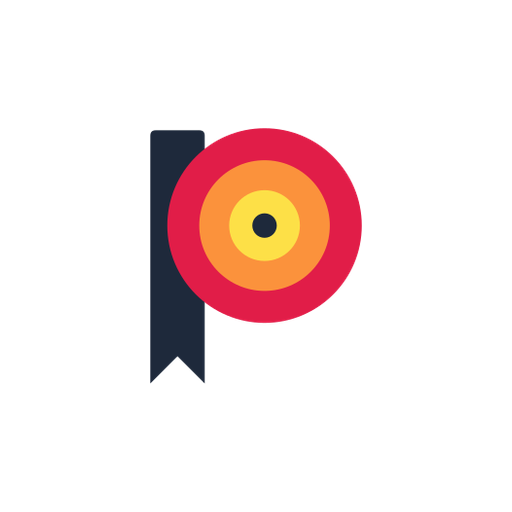
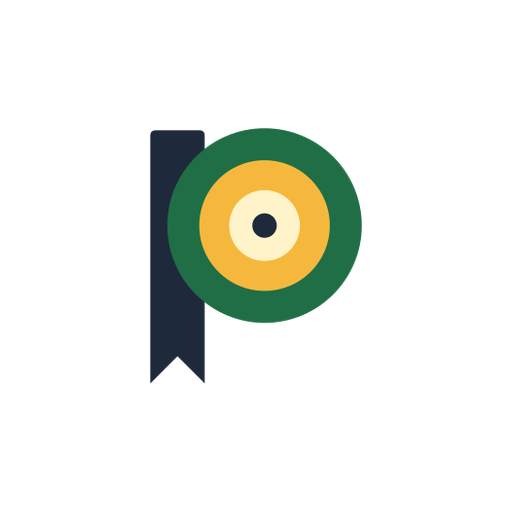
brand: recolour the P mark into the site palette (green, amber, cream)

Changed region(s): [[0.3125, 0.25, 0.7188, 0.6562]]

diff --git a/public/index.html b/public/index.html
@@ -392,7 +392,7 @@ body > :where(:not(.chalkboard):not(script):not(style)){position:relative;z-inde
 <style>/* Header: one line per link; drop the marketing links first when space runs out. */.nav-links a,#ss-account-area button,#ss-account-area a{white-space:nowrap}@media(max-width:1360px){.nav-links a[href="/about/"],.nav-links a[href="/#how-it-works"]{display:none}}.header-bar .nav-links{flex:1;justify-content:flex-start}.header-bar .nav-links a[href="#classes-section"].nav-hide-sm{margin-left:auto}.header-bar .nav-links a[href="/settings/"].nav-hide-sm{margin-right:auto}</style>
 <div role="banner" class="header-bar" style="display:flex;align-items:center;justify-content:space-between;padding:18px 32px;background:var(--bg-header);border-bottom:1px solid var(--border);position:relative;">
   <button id="ss-logo-btn" type="button" aria-haspopup="menu" aria-expanded="false" aria-controls="ss-mobile-menu" onclick="ssLogoClick()" style="font-weight:800;font-size:22px;color:var(--nav-text);display:flex;align-items:center;gap:8px;background:none;border:none;padding:0;cursor:pointer;font-family:inherit;" aria-label="PrecisStudy">
-    <svg class="ss-mark" viewBox="46 30 164 196" width="22" height="26" aria-hidden="true" focusable="false" style="flex-shrink:0;margin-right:-5px"><path d="M55 36H87Q91 36 91 40V222L71 202L51 222V40Q51 36 55 36Z" fill="currentColor"/><circle cx="135" cy="106" r="71.5" fill="#e11d48"/><circle cx="135" cy="106" r="48" fill="#fb923c"/><circle cx="135" cy="106" r="26" fill="#fde047"/><circle cx="135" cy="106" r="9" fill="currentColor"/></svg>recisStudy
+    <svg class="ss-mark" viewBox="46 30 164 196" width="22" height="26" aria-hidden="true" focusable="false" style="flex-shrink:0;margin-right:-5px"><path d="M55 36H87Q91 36 91 40V222L71 202L51 222V40Q51 36 55 36Z" fill="currentColor"/><circle cx="135" cy="106" r="71.5" style="fill:var(--accent,#1f6e46)"/><circle cx="135" cy="106" r="48" fill="#f5b83d"/><circle cx="135" cy="106" r="26" fill="#fff3c9"/><circle cx="135" cy="106" r="9" fill="currentColor"/></svg>recisStudy
   <svg class="ss-menu-icon" aria-hidden="true" viewBox="0 0 24 24" width="20" height="20" fill="none" stroke="currentColor" stroke-width="2" stroke-linecap="round"><path d="M4 7h16M4 12h16M4 17h16"/></svg></button>
   <div role="navigation" aria-label="Main" class="nav-links" style="display:flex;gap:16px;font-weight:600;font-size:15px;color:var(--nav-text);align-items:center;">
     <a href="#classes-section" class="nav-hide-sm" style="color:var(--nav-text);text-decoration:none;">Browse Subjects</a>

diff --git a/public/admin/index.html b/public/admin/index.html
@@ -116,7 +116,7 @@ html{scroll-behavior:smooth}
 <style>/* Header: one line per link; drop the marketing links first when space runs out. */.nav-links a,#ss-account-area button,#ss-account-area a{white-space:nowrap}@media(max-width:1360px){.nav-links a[href="/about/"],.nav-links a[href="/#how-it-works"]{display:none}}</style>
 <div role="banner" class="header-bar" style="display:flex;align-items:center;justify-content:space-between;padding:18px 32px;background:var(--bg-header);border-bottom:1px solid var(--border);">
   <a href="/" style="font-weight:800;font-size:22px;color:var(--nav-text);display:flex;align-items:center;gap:8px;text-decoration:none;" aria-label="PrecisStudy">
-    <svg class="ss-mark" viewBox="46 30 164 196" width="22" height="26" aria-hidden="true" focusable="false" style="flex-shrink:0;margin-right:-5px"><path d="M55 36H87Q91 36 91 40V222L71 202L51 222V40Q51 36 55 36Z" fill="currentColor"/><circle cx="135" cy="106" r="71.5" fill="#e11d48"/><circle cx="135" cy="106" r="48" fill="#fb923c"/><circle cx="135" cy="106" r="26" fill="#fde047"/><circle cx="135" cy="106" r="9" fill="currentColor"/></svg>recisStudy
+    <svg class="ss-mark" viewBox="46 30 164 196" width="22" height="26" aria-hidden="true" focusable="false" style="flex-shrink:0;margin-right:-5px"><path d="M55 36H87Q91 36 91 40V222L71 202L51 222V40Q51 36 55 36Z" fill="currentColor"/><circle cx="135" cy="106" r="71.5" style="fill:var(--accent,#1f6e46)"/><circle cx="135" cy="106" r="48" fill="#f5b83d"/><circle cx="135" cy="106" r="26" fill="#fff3c9"/><circle cx="135" cy="106" r="9" fill="currentColor"/></svg>recisStudy
   </a>
   <div role="navigation" aria-label="Main" class="nav-links" style="display:flex;gap:16px;font-weight:600;font-size:15px;color:var(--nav-text);align-items:center;">
     <button id="theme-toggle" onclick="ssToggleTheme()" aria-label="Toggle dark mode" title="Toggle dark mode">

diff --git a/public/onboarding/index.html b/public/onboarding/index.html
@@ -228,7 +228,7 @@ a{color:var(--accent)}
 <style>/* Header: one line per link; drop the marketing links first when space runs out. */.nav-links a,#ss-account-area button,#ss-account-area a{white-space:nowrap}@media(max-width:1360px){.nav-links a[href="/about/"],.nav-links a[href="/#how-it-works"]{display:none}}</style>
 <div role="banner" class="header-bar" style="display:flex;align-items:center;justify-content:space-between;padding:18px 32px;background:var(--bg-header);border-bottom:1px solid var(--border);">
   <a href="/" style="font-weight:800;font-size:22px;color:var(--nav-text);display:flex;align-items:center;gap:8px;text-decoration:none;" aria-label="PrecisStudy">
-    <svg class="ss-mark" viewBox="46 30 164 196" width="22" height="26" aria-hidden="true" focusable="false" style="flex-shrink:0;margin-right:-5px"><path d="M55 36H87Q91 36 91 40V222L71 202L51 222V40Q51 36 55 36Z" fill="currentColor"/><circle cx="135" cy="106" r="71.5" fill="#e11d48"/><circle cx="135" cy="106" r="48" fill="#fb923c"/><circle cx="135" cy="106" r="26" fill="#fde047"/><circle cx="135" cy="106" r="9" fill="currentColor"/></svg>recisStudy
+    <svg class="ss-mark" viewBox="46 30 164 196" width="22" height="26" aria-hidden="true" focusable="false" style="flex-shrink:0;margin-right:-5px"><path d="M55 36H87Q91 36 91 40V222L71 202L51 222V40Q51 36 55 36Z" fill="currentColor"/><circle cx="135" cy="106" r="71.5" style="fill:var(--accent,#1f6e46)"/><circle cx="135" cy="106" r="48" fill="#f5b83d"/><circle cx="135" cy="106" r="26" fill="#fff3c9"/><circle cx="135" cy="106" r="9" fill="currentColor"/></svg>recisStudy
   </a>
   <div role="navigation" aria-label="Main" class="nav-links" style="display:flex;gap:16px;font-weight:600;font-size:15px;color:var(--nav-text);align-items:center;">
     <button id="theme-toggle" onclick="obToggleTheme()" aria-label="Toggle dark mode" title="Toggle dark mode">

diff --git a/public/compete/index.html b/public/compete/index.html
@@ -171,7 +171,7 @@ label.ss-label{display:block;font-weight:700;font-size:13.5px;color:var(--text-m
 <style>/* Header: one line per link; drop the marketing links first when space runs out. */.nav-links a,#ss-account-area button,#ss-account-area a{white-space:nowrap}</style>
 <div role="banner" class="header-bar" style="display:flex;align-items:center;justify-content:space-between;padding:18px 32px;background:var(--bg-header);border-bottom:1px solid var(--border);position:relative;">
   <a href="/" style="font-weight:800;font-size:22px;color:var(--nav-text);display:flex;align-items:center;gap:8px;text-decoration:none;" aria-label="PrecisStudy">
-    <svg class="ss-mark" viewBox="46 30 164 196" width="22" height="26" aria-hidden="true" focusable="false" style="flex-shrink:0;margin-right:-5px"><path d="M55 36H87Q91 36 91 40V222L71 202L51 222V40Q51 36 55 36Z" fill="currentColor"/><circle cx="135" cy="106" r="71.5" fill="#e11d48"/><circle cx="135" cy="106" r="48" fill="#fb923c"/><circle cx="135" cy="106" r="26" fill="#fde047"/><circle cx="135" cy="106" r="9" fill="currentColor"/></svg>recisStudy
+    <svg class="ss-mark" viewBox="46 30 164 196" width="22" height="26" aria-hidden="true" focusable="false" style="flex-shrink:0;margin-right:-5px"><path d="M55 36H87Q91 36 91 40V222L71 202L51 222V40Q51 36 55 36Z" fill="currentColor"/><circle cx="135" cy="106" r="71.5" style="fill:var(--accent,#1f6e46)"/><circle cx="135" cy="106" r="48" fill="#f5b83d"/><circle cx="135" cy="106" r="26" fill="#fff3c9"/><circle cx="135" cy="106" r="9" fill="currentColor"/></svg>recisStudy
   </a>
   <div role="navigation" aria-label="Main" class="nav-links" style="display:flex;gap:16px;font-weight:600;font-size:15px;color:var(--nav-text);align-items:center;">
     <a href="/#classes-section" class="nav-hide-sm" style="color:var(--nav-text);text-decoration:none;">Browse Subjects</a>

diff --git a/public/educators/index.html b/public/educators/index.html
@@ -106,7 +106,7 @@ label.ss-label{display:block;font-weight:700;font-size:13.5px;color:var(--text-m
 <style>/* Header: one line per link; drop the marketing links first when space runs out. */.nav-links a,#ss-account-area button,#ss-account-area a{white-space:nowrap}</style>
 <div role="banner" class="header-bar" style="display:flex;align-items:center;justify-content:space-between;padding:18px 32px;background:var(--bg-header);border-bottom:1px solid var(--border);position:relative;">
   <a href="/" style="font-weight:800;font-size:22px;color:var(--nav-text);display:flex;align-items:center;gap:8px;text-decoration:none;" aria-label="PrecisStudy">
-    <svg class="ss-mark" viewBox="46 30 164 196" width="22" height="26" aria-hidden="true" focusable="false" style="flex-shrink:0;margin-right:-5px"><path d="M55 36H87Q91 36 91 40V222L71 202L51 222V40Q51 36 55 36Z" fill="currentColor"/><circle cx="135" cy="106" r="71.5" fill="#e11d48"/><circle cx="135" cy="106" r="48" fill="#fb923c"/><circle cx="135" cy="106" r="26" fill="#fde047"/><circle cx="135" cy="106" r="9" fill="currentColor"/></svg>recisStudy
+    <svg class="ss-mark" viewBox="46 30 164 196" width="22" height="26" aria-hidden="true" focusable="false" style="flex-shrink:0;margin-right:-5px"><path d="M55 36H87Q91 36 91 40V222L71 202L51 222V40Q51 36 55 36Z" fill="currentColor"/><circle cx="135" cy="106" r="71.5" style="fill:var(--accent,#1f6e46)"/><circle cx="135" cy="106" r="48" fill="#f5b83d"/><circle cx="135" cy="106" r="26" fill="#fff3c9"/><circle cx="135" cy="106" r="9" fill="currentColor"/></svg>recisStudy
   </a>
   <div role="navigation" aria-label="Main" class="nav-links" style="display:flex;gap:16px;font-weight:600;font-size:15px;color:var(--nav-text);align-items:center;">
     <a href="/#classes-section" class="nav-hide-sm" style="color:var(--nav-text);text-decoration:none;">Browse Subjects</a>

diff --git a/public/concepts/index.html b/public/concepts/index.html
@@ -84,7 +84,7 @@ label.ss-label{display:block;font-weight:700;font-size:13.5px;color:var(--text-m
 <style>/* Header: one line per link; drop the marketing links first when space runs out. */.nav-links a,#ss-account-area button,#ss-account-area a{white-space:nowrap}</style>
 <div role="banner" class="header-bar" style="display:flex;align-items:center;justify-content:space-between;padding:18px 32px;background:var(--bg-header);border-bottom:1px solid var(--border);position:relative;">
   <a href="/" style="font-weight:800;font-size:22px;color:var(--nav-text);display:flex;align-items:center;gap:8px;text-decoration:none;" aria-label="PrecisStudy">
-    <svg class="ss-mark" viewBox="46 30 164 196" width="22" height="26" aria-hidden="true" focusable="false" style="flex-shrink:0;margin-right:-5px"><path d="M55 36H87Q91 36 91 40V222L71 202L51 222V40Q51 36 55 36Z" fill="currentColor"/><circle cx="135" cy="106" r="71.5" fill="#e11d48"/><circle cx="135" cy="106" r="48" fill="#fb923c"/><circle cx="135" cy="106" r="26" fill="#fde047"/><circle cx="135" cy="106" r="9" fill="currentColor"/></svg>recisStudy
+    <svg class="ss-mark" viewBox="46 30 164 196" width="22" height="26" aria-hidden="true" focusable="false" style="flex-shrink:0;margin-right:-5px"><path d="M55 36H87Q91 36 91 40V222L71 202L51 222V40Q51 36 55 36Z" fill="currentColor"/><circle cx="135" cy="106" r="71.5" style="fill:var(--accent,#1f6e46)"/><circle cx="135" cy="106" r="48" fill="#f5b83d"/><circle cx="135" cy="106" r="26" fill="#fff3c9"/><circle cx="135" cy="106" r="9" fill="currentColor"/></svg>recisStudy
   </a>
   <div role="navigation" aria-label="Main" class="nav-links" style="display:flex;gap:16px;font-weight:600;font-size:15px;color:var(--nav-text);align-items:center;">
     <a href="/#classes-section" class="nav-hide-sm" style="color:var(--nav-text);text-decoration:none;">Browse Subjects</a>

diff --git a/public/syllabus/index.html b/public/syllabus/index.html
@@ -90,7 +90,7 @@ label.ss-label{display:block;font-weight:700;font-size:13.5px;color:var(--text-m
 <style>/* Header: one line per link; drop the marketing links first when space runs out. */.nav-links a,#ss-account-area button,#ss-account-area a{white-space:nowrap}</style>
 <div role="banner" class="header-bar" style="display:flex;align-items:center;justify-content:space-between;padding:18px 32px;background:var(--bg-header);border-bottom:1px solid var(--border);position:relative;">
   <a href="/" style="font-weight:800;font-size:22px;color:var(--nav-text);display:flex;align-items:center;gap:8px;text-decoration:none;" aria-label="PrecisStudy">
-    <svg class="ss-mark" viewBox="46 30 164 196" width="22" height="26" aria-hidden="true" focusable="false" style="flex-shrink:0;margin-right:-5px"><path d="M55 36H87Q91 36 91 40V222L71 202L51 222V40Q51 36 55 36Z" fill="currentColor"/><circle cx="135" cy="106" r="71.5" fill="#e11d48"/><circle cx="135" cy="106" r="48" fill="#fb923c"/><circle cx="135" cy="106" r="26" fill="#fde047"/><circle cx="135" cy="106" r="9" fill="currentColor"/></svg>recisStudy
+    <svg class="ss-mark" viewBox="46 30 164 196" width="22" height="26" aria-hidden="true" focusable="false" style="flex-shrink:0;margin-right:-5px"><path d="M55 36H87Q91 36 91 40V222L71 202L51 222V40Q51 36 55 36Z" fill="currentColor"/><circle cx="135" cy="106" r="71.5" style="fill:var(--accent,#1f6e46)"/><circle cx="135" cy="106" r="48" fill="#f5b83d"/><circle cx="135" cy="106" r="26" fill="#fff3c9"/><circle cx="135" cy="106" r="9" fill="currentColor"/></svg>recisStudy
   </a>
   <div role="navigation" aria-label="Main" class="nav-links" style="display:flex;gap:16px;font-weight:600;font-size:15px;color:var(--nav-text);align-items:center;">
     <a href="/#classes-section" class="nav-hide-sm" style="color:var(--nav-text);text-decoration:none;">Browse Subjects</a>

diff --git a/public/about/index.html b/public/about/index.html
@@ -114,7 +114,7 @@ body{transition:background .2s ease,color .2s ease}
 <style>/* Header: one line per link; drop the marketing links first when space runs out. */.nav-links a,#ss-account-area button,#ss-account-area a{white-space:nowrap}</style>
 <div role="banner" class="header-bar" style="display:flex;align-items:center;justify-content:space-between;padding:18px 32px;background:var(--bg-header);border-bottom:1px solid var(--border);position:relative;">
   <a href="/" style="font-weight:800;font-size:22px;color:var(--nav-text);display:flex;align-items:center;gap:8px;text-decoration:none;" aria-label="PrecisStudy">
-    <svg class="ss-mark" viewBox="46 30 164 196" width="22" height="26" aria-hidden="true" focusable="false" style="flex-shrink:0;margin-right:-5px"><path d="M55 36H87Q91 36 91 40V222L71 202L51 222V40Q51 36 55 36Z" fill="currentColor"/><circle cx="135" cy="106" r="71.5" fill="#e11d48"/><circle cx="135" cy="106" r="48" fill="#fb923c"/><circle cx="135" cy="106" r="26" fill="#fde047"/><circle cx="135" cy="106" r="9" fill="currentColor"/></svg>recisStudy
+    <svg class="ss-mark" viewBox="46 30 164 196" width="22" height="26" aria-hidden="true" focusable="false" style="flex-shrink:0;margin-right:-5px"><path d="M55 36H87Q91 36 91 40V222L71 202L51 222V40Q51 36 55 36Z" fill="currentColor"/><circle cx="135" cy="106" r="71.5" style="fill:var(--accent,#1f6e46)"/><circle cx="135" cy="106" r="48" fill="#f5b83d"/><circle cx="135" cy="106" r="26" fill="#fff3c9"/><circle cx="135" cy="106" r="9" fill="currentColor"/></svg>recisStudy
   </a>
   <div role="navigation" aria-label="Main" class="nav-links" style="display:flex;gap:16px;font-weight:600;font-size:15px;color:var(--nav-text);align-items:center;">
     <a href="/#classes-section" class="nav-hide-sm" style="color:var(--nav-text);text-decoration:none;">Browse Subjects</a>

diff --git a/public/changelog/index.html b/public/changelog/index.html
@@ -129,7 +129,7 @@ body{transition:background .2s ease,color .2s ease}
 <style>/* Header: one line per link; drop the marketing links first when space runs out. */.nav-links a,#ss-account-area button,#ss-account-area a{white-space:nowrap}</style>
 <div role="banner" class="header-bar" style="display:flex;align-items:center;justify-content:space-between;padding:18px 32px;background:var(--bg-header);border-bottom:1px solid var(--border);position:relative;">
   <a href="/" style="font-weight:800;font-size:22px;color:var(--nav-text);display:flex;align-items:center;gap:8px;text-decoration:none;" aria-label="PrecisStudy">
-    <svg class="ss-mark" viewBox="46 30 164 196" width="22" height="26" aria-hidden="true" focusable="false" style="flex-shrink:0;margin-right:-5px"><path d="M55 36H87Q91 36 91 40V222L71 202L51 222V40Q51 36 55 36Z" fill="currentColor"/><circle cx="135" cy="106" r="71.5" fill="#e11d48"/><circle cx="135" cy="106" r="48" fill="#fb923c"/><circle cx="135" cy="106" r="26" fill="#fde047"/><circle cx="135" cy="106" r="9" fill="currentColor"/></svg>recisStudy
+    <svg class="ss-mark" viewBox="46 30 164 196" width="22" height="26" aria-hidden="true" focusable="false" style="flex-shrink:0;margin-right:-5px"><path d="M55 36H87Q91 36 91 40V222L71 202L51 222V40Q51 36 55 36Z" fill="currentColor"/><circle cx="135" cy="106" r="71.5" style="fill:var(--accent,#1f6e46)"/><circle cx="135" cy="106" r="48" fill="#f5b83d"/><circle cx="135" cy="106" r="26" fill="#fff3c9"/><circle cx="135" cy="106" r="9" fill="currentColor"/></svg>recisStudy
   </a>
   <div role="navigation" aria-label="Main" class="nav-links" style="display:flex;gap:16px;font-weight:600;font-size:15px;color:var(--nav-text);align-items:center;">
     <a href="/#classes-section" class="nav-hide-sm" style="color:var(--nav-text);text-decoration:none;">Browse Subjects</a>

diff --git a/public/dashboard/index.html b/public/dashboard/index.html
@@ -232,7 +232,7 @@ body{transition:background .2s ease,color .2s ease}
 <style>/* Header: one line per link; drop the marketing links first when space runs out. */.nav-links a,#ss-account-area button,#ss-account-area a{white-space:nowrap}</style>
 <div role="banner" class="header-bar" style="display:flex;align-items:center;justify-content:space-between;padding:18px 32px;background:var(--bg-header);border-bottom:1px solid var(--border);position:relative;">
   <a href="/" style="font-weight:800;font-size:22px;color:var(--nav-text);display:flex;align-items:center;gap:8px;text-decoration:none;" aria-label="PrecisStudy">
-    <svg class="ss-mark" viewBox="46 30 164 196" width="22" height="26" aria-hidden="true" focusable="false" style="flex-shrink:0;margin-right:-5px"><path d="M55 36H87Q91 36 91 40V222L71 202L51 222V40Q51 36 55 36Z" fill="currentColor"/><circle cx="135" cy="106" r="71.5" fill="#e11d48"/><circle cx="135" cy="106" r="48" fill="#fb923c"/><circle cx="135" cy="106" r="26" fill="#fde047"/><circle cx="135" cy="106" r="9" fill="currentColor"/></svg>recisStudy
+    <svg class="ss-mark" viewBox="46 30 164 196" width="22" height="26" aria-hidden="true" focusable="false" style="flex-shrink:0;margin-right:-5px"><path d="M55 36H87Q91 36 91 40V222L71 202L51 222V40Q51 36 55 36Z" fill="currentColor"/><circle cx="135" cy="106" r="71.5" style="fill:var(--accent,#1f6e46)"/><circle cx="135" cy="106" r="48" fill="#f5b83d"/><circle cx="135" cy="106" r="26" fill="#fff3c9"/><circle cx="135" cy="106" r="9" fill="currentColor"/></svg>recisStudy
   </a>
   <div role="navigation" aria-label="Main" class="nav-links" style="display:flex;gap:16px;font-weight:600;font-size:15px;color:var(--nav-text);align-items:center;">
     <a href="/#classes-section" class="nav-hide-sm" style="color:var(--nav-text);text-decoration:none;">Browse Subjects</a>

diff --git a/public/request/index.html b/public/request/index.html
@@ -140,7 +140,7 @@ body{transition:background .2s ease,color .2s ease}
 <style>/* Header: one line per link; drop the marketing links first when space runs out. */.nav-links a,#ss-account-area button,#ss-account-area a{white-space:nowrap}</style>
 <div role="banner" class="header-bar" style="display:flex;align-items:center;justify-content:space-between;padding:18px 32px;background:var(--bg-header);border-bottom:1px solid var(--border);position:relative;">
   <a href="/" style="font-weight:800;font-size:22px;color:var(--nav-text);display:flex;align-items:center;gap:8px;text-decoration:none;" aria-label="PrecisStudy">
-    <svg class="ss-mark" viewBox="46 30 164 196" width="22" height="26" aria-hidden="true" focusable="false" style="flex-shrink:0;margin-right:-5px"><path d="M55 36H87Q91 36 91 40V222L71 202L51 222V40Q51 36 55 36Z" fill="currentColor"/><circle cx="135" cy="106" r="71.5" fill="#e11d48"/><circle cx="135" cy="106" r="48" fill="#fb923c"/><circle cx="135" cy="106" r="26" fill="#fde047"/><circle cx="135" cy="106" r="9" fill="currentColor"/></svg>recisStudy
+    <svg class="ss-mark" viewBox="46 30 164 196" width="22" height="26" aria-hidden="true" focusable="false" style="flex-shrink:0;margin-right:-5px"><path d="M55 36H87Q91 36 91 40V222L71 202L51 222V40Q51 36 55 36Z" fill="currentColor"/><circle cx="135" cy="106" r="71.5" style="fill:var(--accent,#1f6e46)"/><circle cx="135" cy="106" r="48" fill="#f5b83d"/><circle cx="135" cy="106" r="26" fill="#fff3c9"/><circle cx="135" cy="106" r="9" fill="currentColor"/></svg>recisStudy
   </a>
   <div role="navigation" aria-label="Main" class="nav-links" style="display:flex;gap:16px;font-weight:600;font-size:15px;color:var(--nav-text);align-items:center;">
     <a href="/#classes-section" class="nav-hide-sm" style="color:var(--nav-text);text-decoration:none;">Browse Subjects</a>

diff --git a/public/parents-bill-of-rights/index.html b/public/parents-bill-of-rights/index.html
@@ -99,7 +99,7 @@ body{transition:background .2s ease,color .2s ease}
 <style>/* Header: one line per link; drop the marketing links first when space runs out. */.nav-links a,#ss-account-area button,#ss-account-area a{white-space:nowrap}</style>
 <div role="banner" class="header-bar" style="display:flex;align-items:center;justify-content:space-between;padding:18px 32px;background:var(--bg-header);border-bottom:1px solid var(--border);position:relative;">
   <a href="/" style="font-weight:800;font-size:22px;color:var(--nav-text);display:flex;align-items:center;gap:8px;text-decoration:none;" aria-label="PrecisStudy">
-    <svg class="ss-mark" viewBox="46 30 164 196" width="22" height="26" aria-hidden="true" focusable="false" style="flex-shrink:0;margin-right:-5px"><path d="M55 36H87Q91 36 91 40V222L71 202L51 222V40Q51 36 55 36Z" fill="currentColor"/><circle cx="135" cy="106" r="71.5" fill="#e11d48"/><circle cx="135" cy="106" r="48" fill="#fb923c"/><circle cx="135" cy="106" r="26" fill="#fde047"/><circle cx="135" cy="106" r="9" fill="currentColor"/></svg>recisStudy
+    <svg class="ss-mark" viewBox="46 30 164 196" width="22" height="26" aria-hidden="true" focusable="false" style="flex-shrink:0;margin-right:-5px"><path d="M55 36H87Q91 36 91 40V222L71 202L51 222V40Q51 36 55 36Z" fill="currentColor"/><circle cx="135" cy="106" r="71.5" style="fill:var(--accent,#1f6e46)"/><circle cx="135" cy="106" r="48" fill="#f5b83d"/><circle cx="135" cy="106" r="26" fill="#fff3c9"/><circle cx="135" cy="106" r="9" fill="currentColor"/></svg>recisStudy
   </a>
   <div role="navigation" aria-label="Main" class="nav-links" style="display:flex;gap:16px;font-weight:600;font-size:15px;color:var(--nav-text);align-items:center;">
     <a href="/#classes-section" class="nav-hide-sm" style="color:var(--nav-text);text-decoration:none;">Browse Subjects</a>
